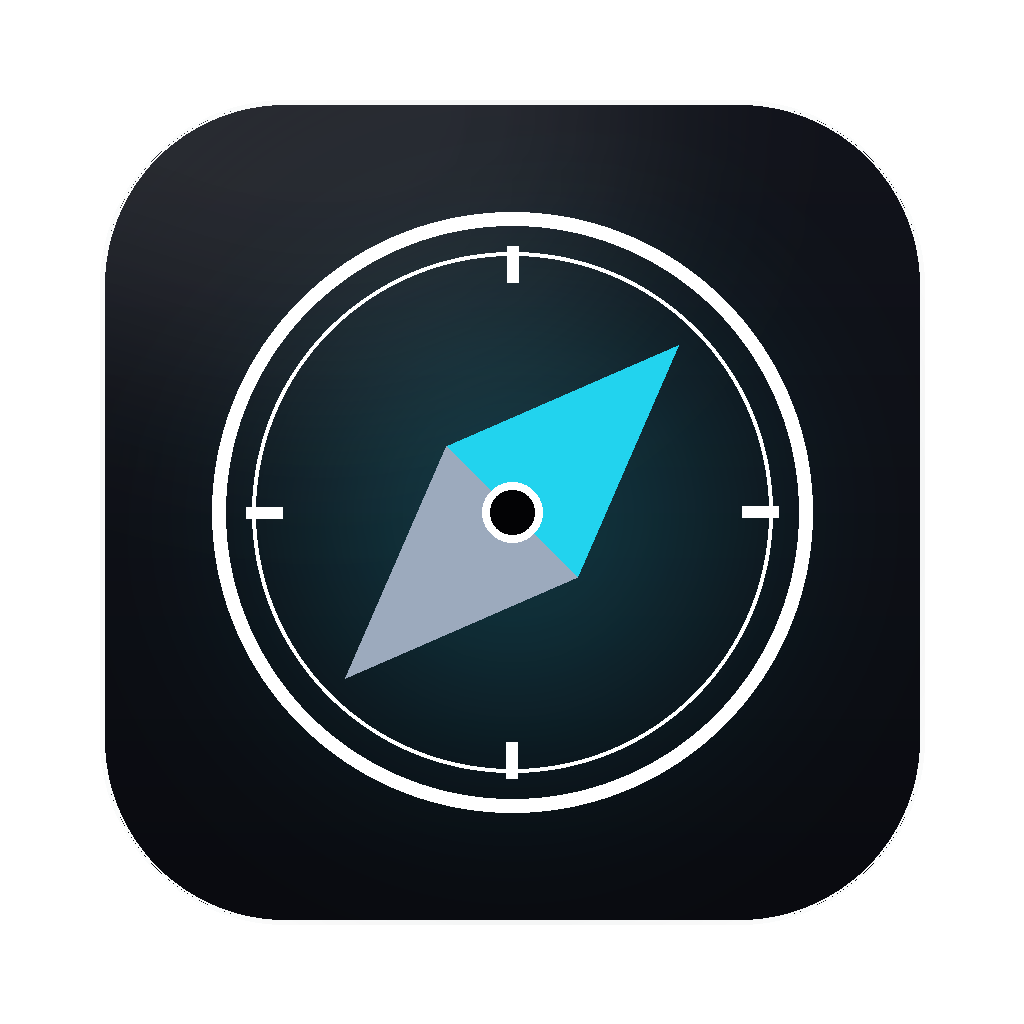
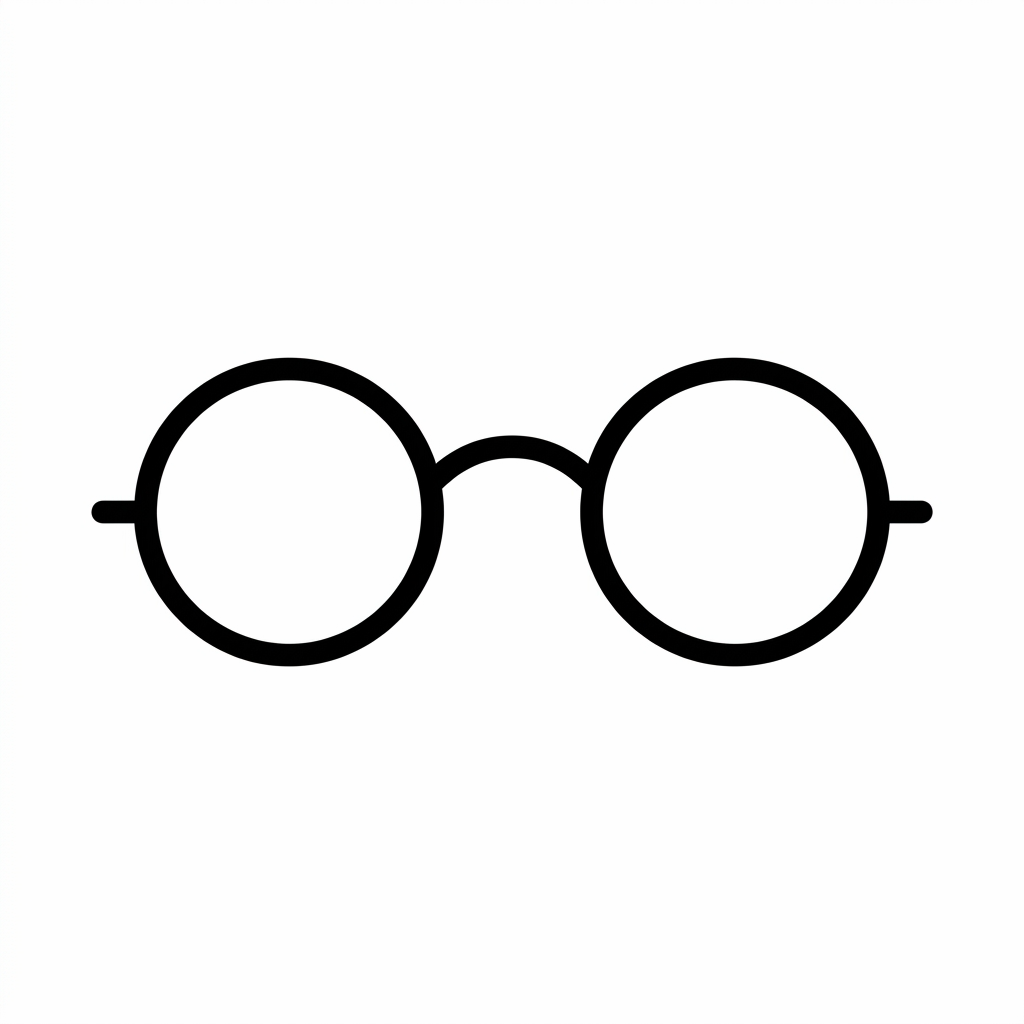
release: v2.7.1

diff --git a/src/index.css b/src/index.css
@@ -63,14 +63,33 @@
   --af-glow-ember: rgba(224, 120, 90, 0.18);
 }
 
-/* (Glass-mode translucent panel vars removed with the rest of glass mode — a translucent
-   panel without backdrop blur reads as a broken see-through surface, which is exactly what
-   the popped-out chat became. Panels stay solid in every mode.) */
+/* ── Glassmorphism Uplift ───────────────────────────────────────────────
+   Applied when settings.glassEnabled is true (via [data-glass="true"]).
+   "safe-premium" discipline: floating chrome only. */
 
-/* Glass mode retired (owner call, July 2026): app and tab backgrounds are SOLID — the
-   minimal look is easier to read. The [data-glass] attribute and glassEnabled setting
-   still exist but no longer blur anything; do not reintroduce backdrop-filter on
-   app/tab/panel surfaces. */
+[data-glass="true"] {
+  --af-base: rgba(255, 255, 255, 0.40);
+  --af-panel: rgba(255, 255, 255, 0.50);
+  --af-panel-2: rgba(250, 249, 246, 0.60);
+  --af-edge: rgba(0, 0, 0, 0.1);
+}
+
+[data-theme='dark'][data-glass="true"] {
+  --af-base: rgba(10, 11, 14, 0.35);
+  --af-panel: rgba(18, 20, 26, 0.45);
+  --af-panel-2: rgba(23, 25, 32, 0.55);
+  --af-edge: rgba(255, 255, 255, 0.08);
+}
+
+/* Apply blur to main surfaces when glass is enabled so they aren't just see-through */
+[data-glass="true"] .bg-panel,
+[data-glass="true"] .bg-panel-2,
+[data-glass="true"] .bg-base,
+.glass-chrome {
+  backdrop-filter: blur(24px);
+  -webkit-backdrop-filter: blur(24px);
+}
+
 .glass-chrome {
   background: var(--color-panel);
   box-shadow: 0 8px 32px 0 rgba(0, 0, 0, 0.08);